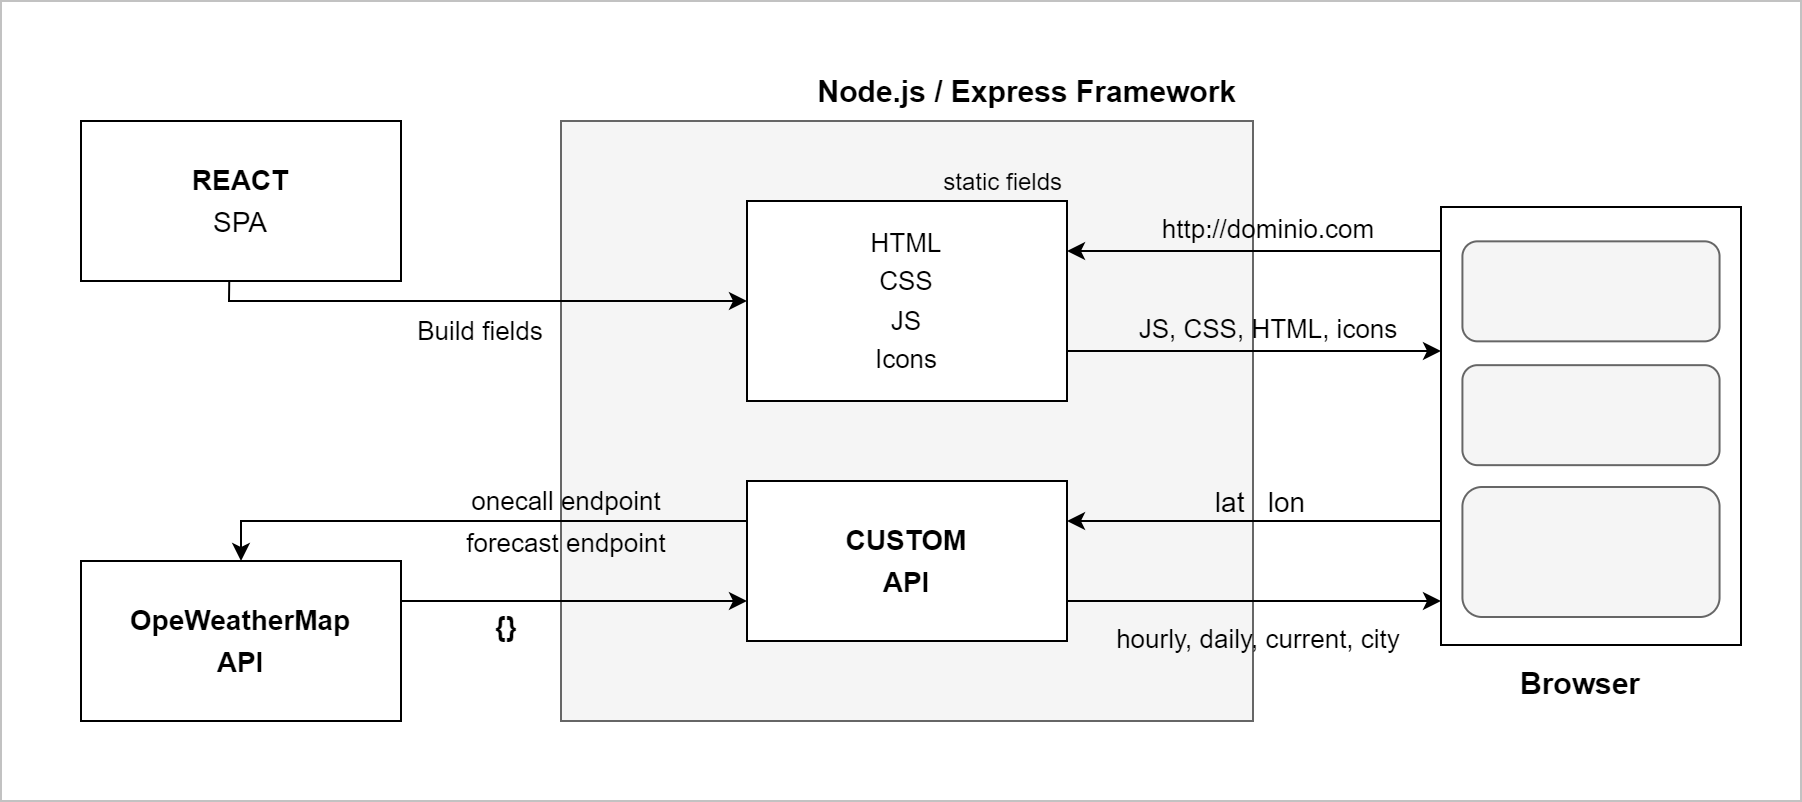
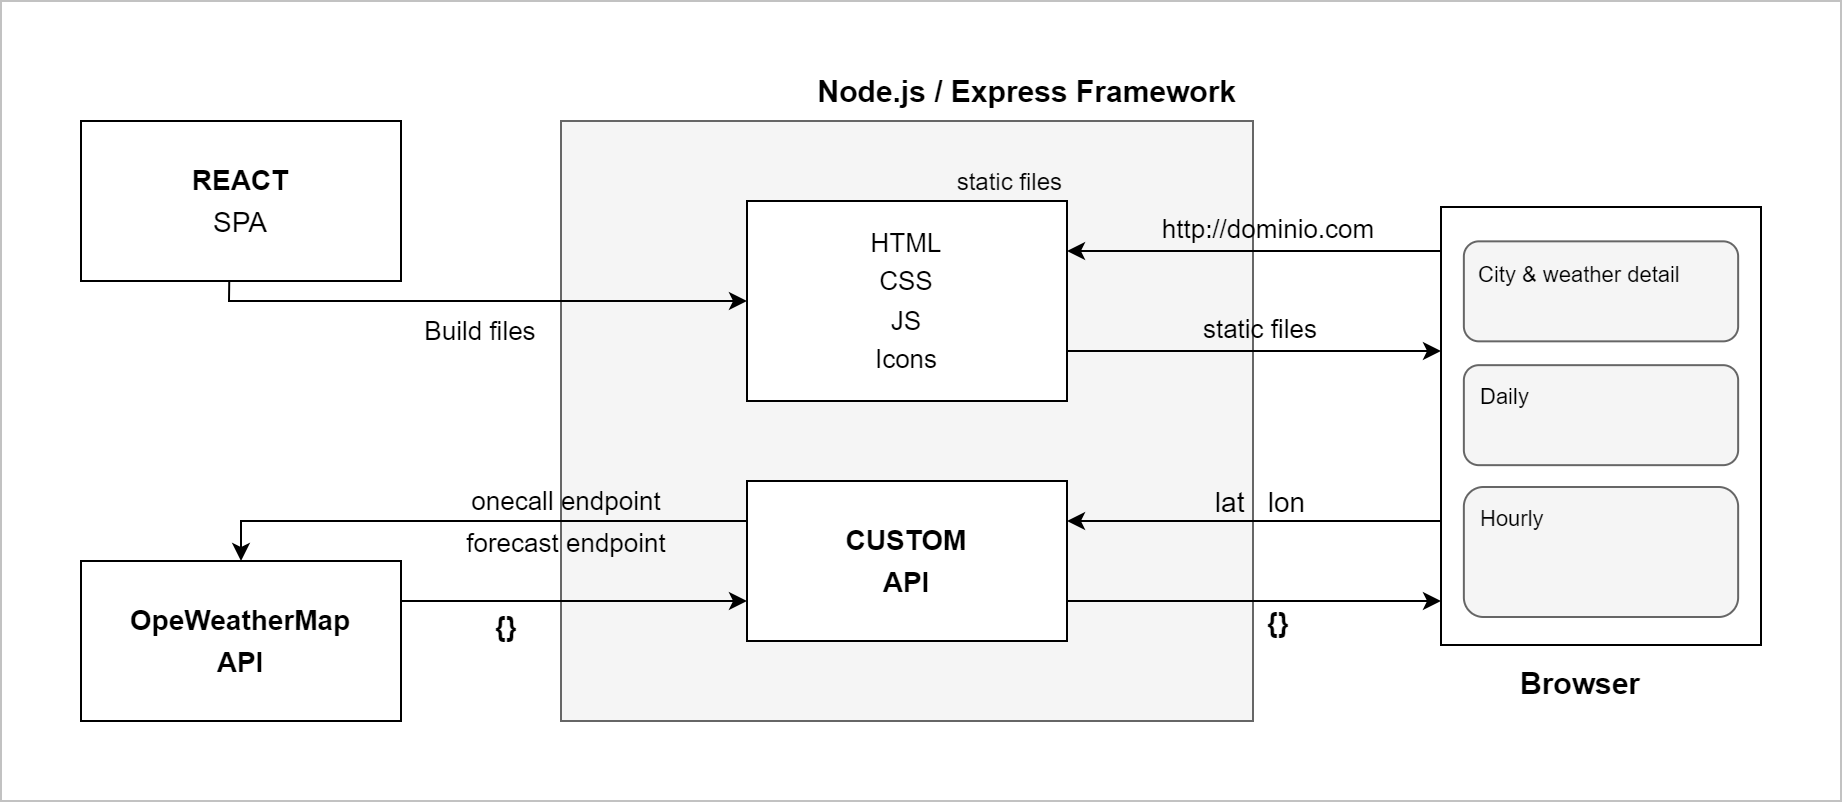
[UPD] README

diff --git a/README.md b/README.md
@@ -1,10 +1,21 @@
 # Weather forecast
 
-The application provides weather information based on your location for the current day and the next 5 days. In addition, it has a graph of how the temperature change will behave for the next 24 hours. The information is obtained in degrees Celsius and degrees Fahrenheit. 
+The application provides weather information based on your location for the current day and the next 5 days. In addition, it has a graph of how the temperature change will behave for the next 24 hours. The information is obtained in degrees Celsius and degrees Fahrenheit.
 
 > To get the location data, you must accept that the browser accesses your location data. In addition, the application will store in the localStorage your preferred temperature unit, which can be either degree Celsius or degrees Fahrenheit.
 
 ## Steps to install the project locally
+
+### Get an OpenWeatherMap API Key
+
+- Create an OpenWeatherMap account in https://openweathermap.org/
+- Get an OpenWeatherMap API key.
+
+### Insert API key to the project
+
+- In the .env file insert your OpenWeatherMap API key.
+
+### Install dependencies and execute the project
 
 Install dependencies
 
@@ -16,7 +27,13 @@ Run the project server
 
 Go to the browser: http://localhost:3001/
 
-<br>
+### Viewing the application - Current weather
+
+![Architecture](/readme_images/application.png "Architecture")
+
+### Viewing the application - Forecast weather
+
+![Architecture](/readme_images/application2.png "Architecture")
 
 ## Development process
 
